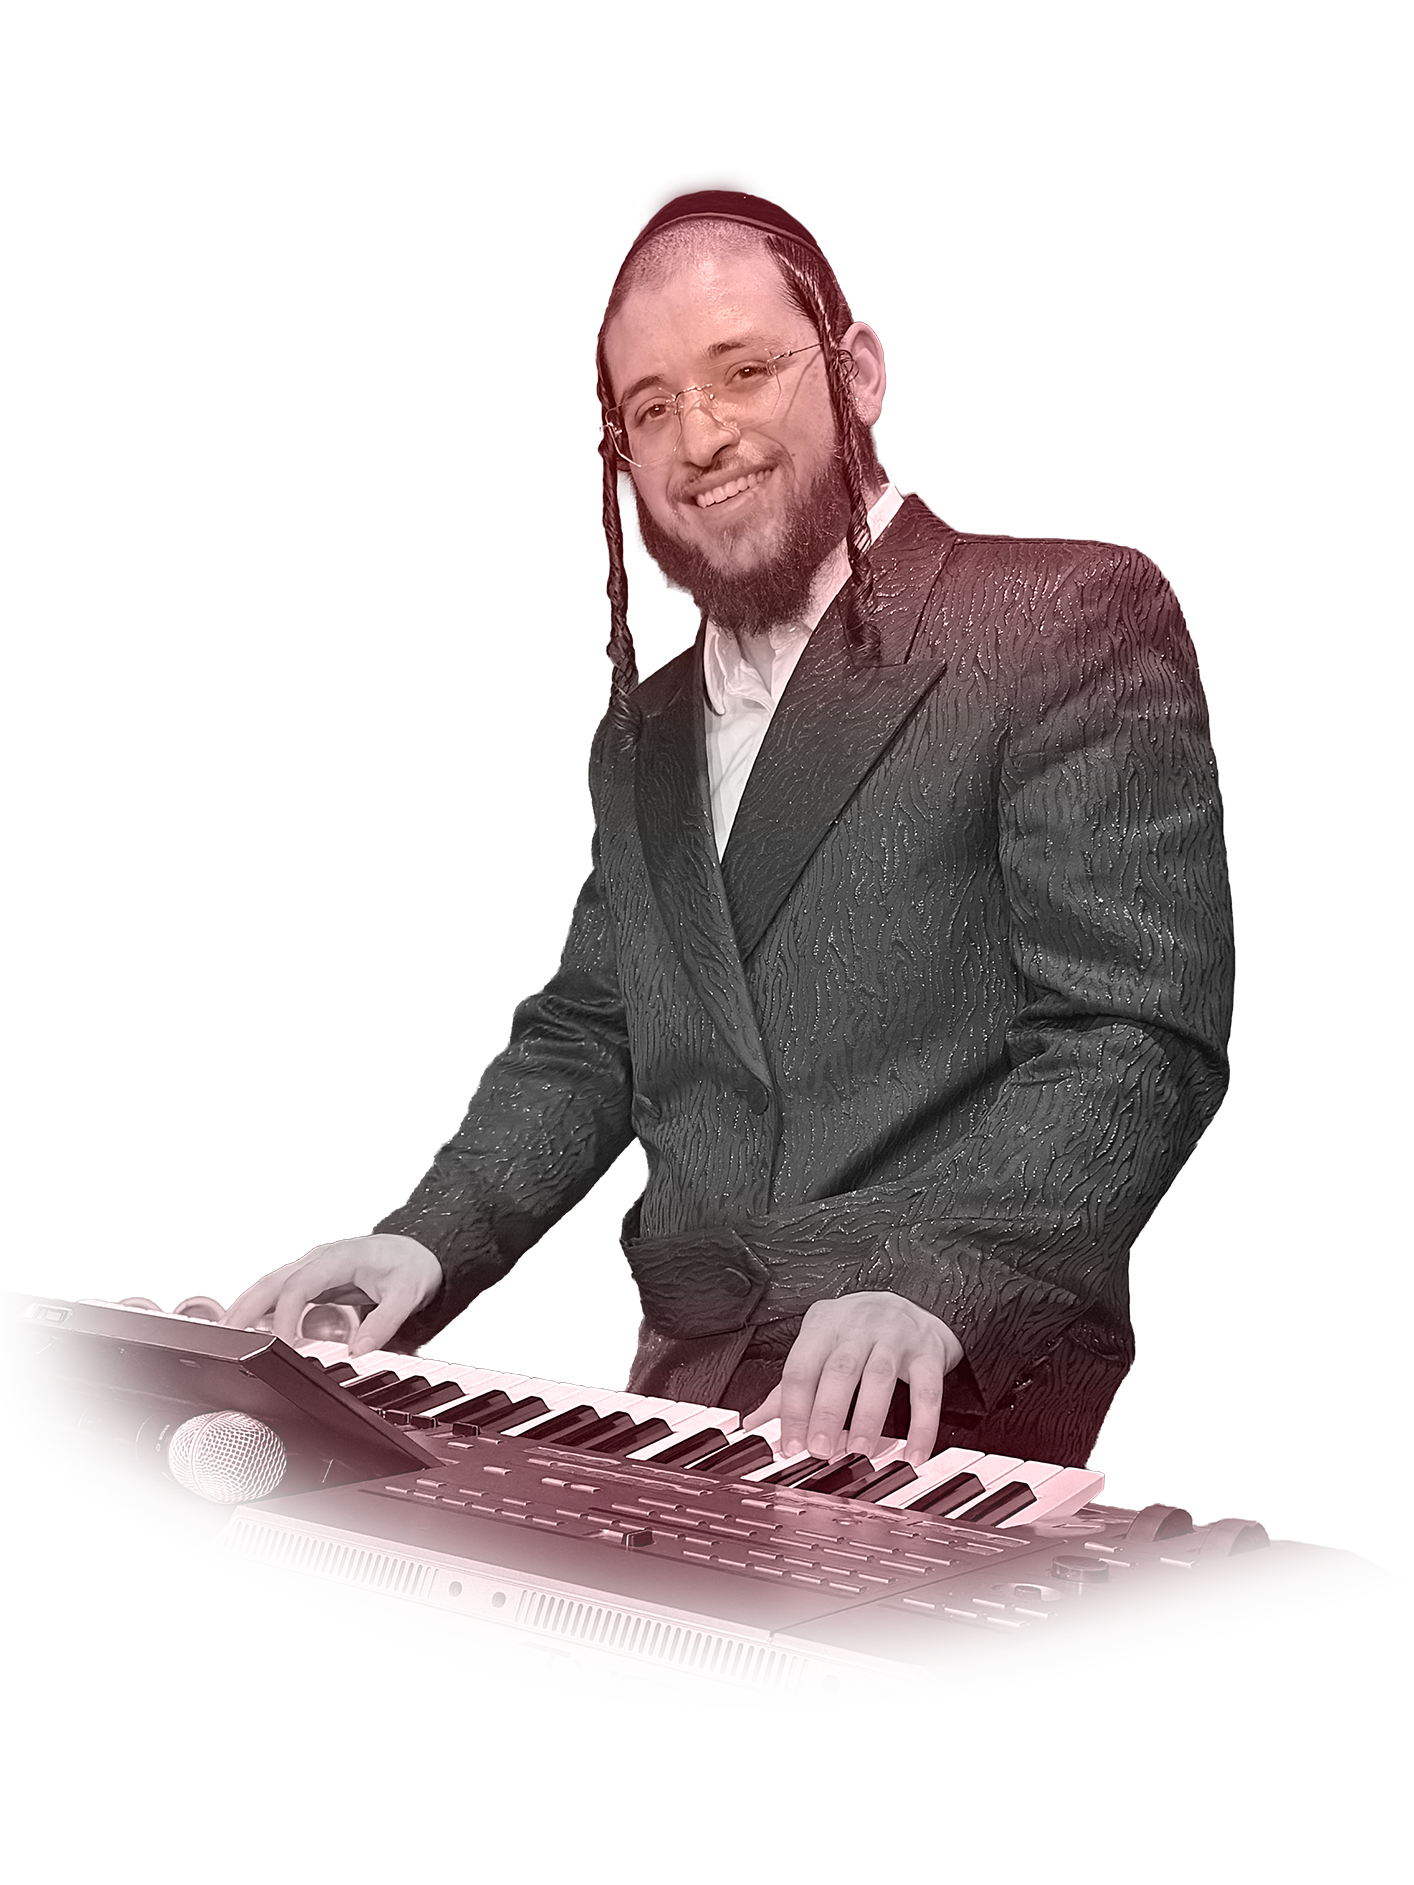
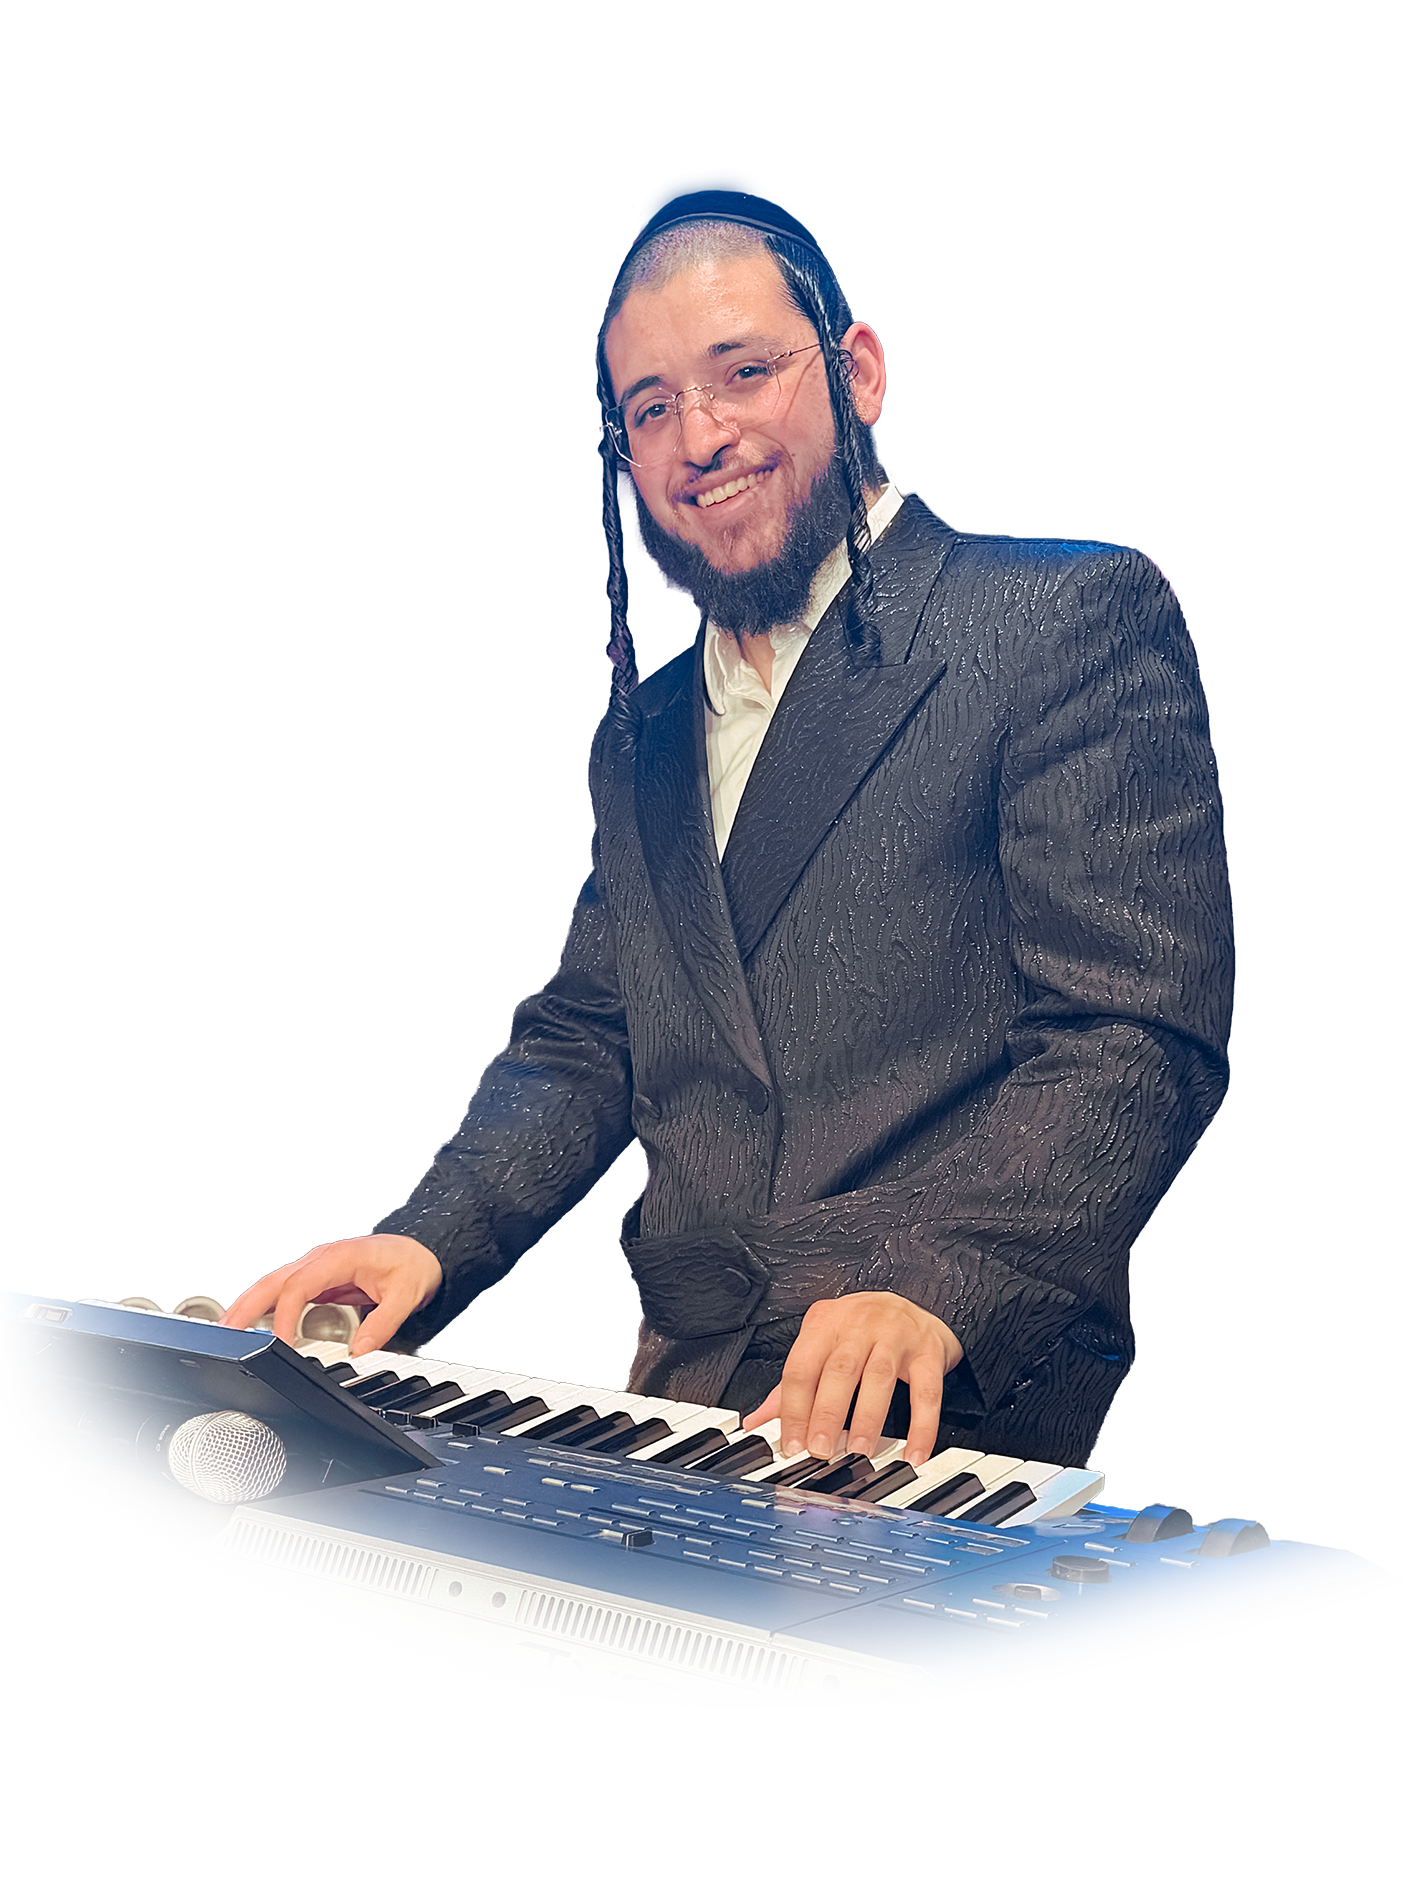
update layout to side-by-side

diff --git a/index.html b/index.html
@@ -1319,7 +1319,7 @@
             <ul class="nav-links" id="nav-links">
                 <li><a href="#home" class="active">ראשי</a></li>
                 <li><a href="#services">שירותים</a></li>
-                <li id="statuses-nav-item" hidden><a href="#statuses">סטטוסים</a></li>
+                <li id="statuses-nav-item" hidden><a href="#statuses">Shorts</a></li>
                 <li><a href="#portfolio">תיק עבודות</a></li>
                 <li><a href="#contact">צור קשר</a></li>
             </ul>